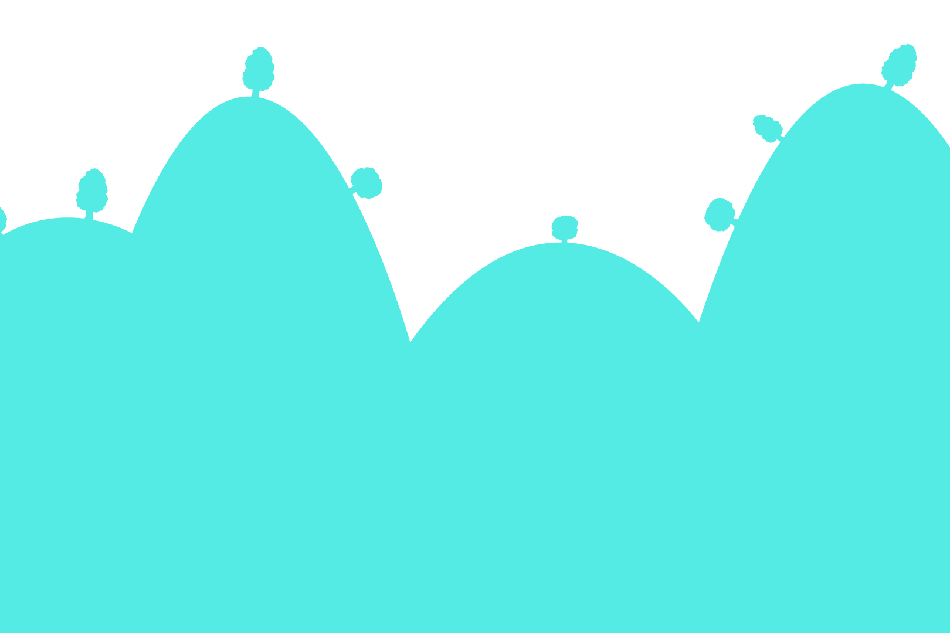
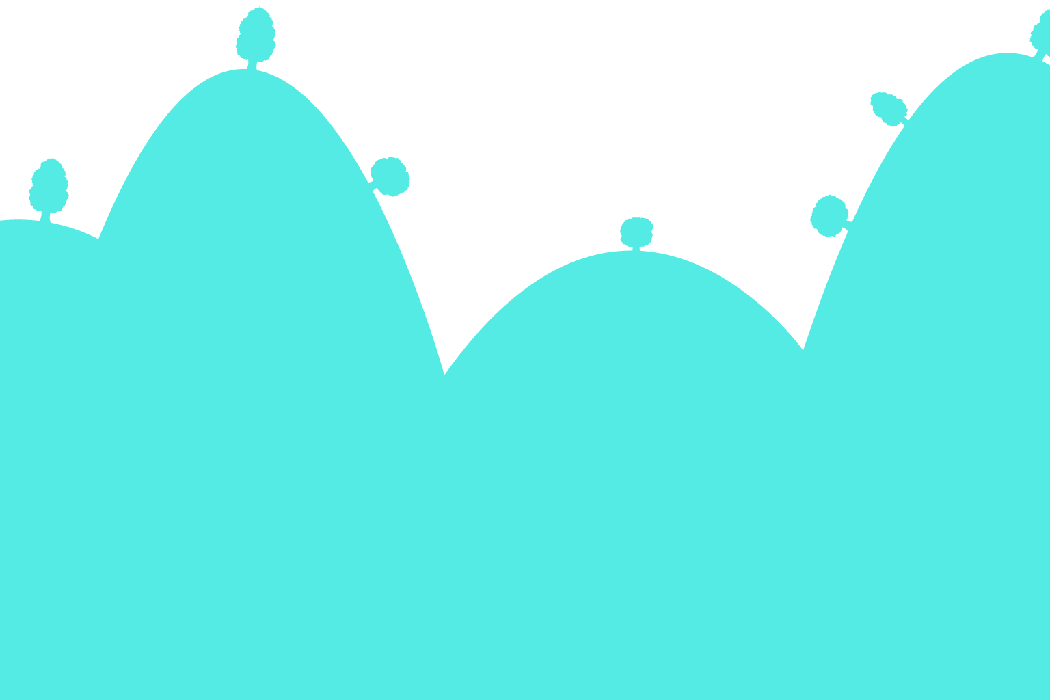
rotation problem fixed

Changed region(s): [[0.4579, 0.0, 1.0, 0.5103], [0.0, 0.0, 0.3358, 0.3602], [0.3358, 0.2101, 0.4579, 0.5403]]

diff --git a/js/game.js b/js/game.js
@@ -48,11 +48,16 @@ const game = {
   },
 
   reset() {
-    this.sky = new Sky();
-
     //level creation
     if (levels[this.levelN] === undefined) this.levelN = 0;
     this.level = new Level(levels[this.levelN]);
+
+    // background creation
+    this.sky = new Sky();
+    this.backgrounds = [];
+    this.backgrounds.push(new Background("./img/bg-back.png", 1050, 700));
+    this.backgrounds.push(new Background("./img/bg-mid.png", 1100, 733));
+    this.backgrounds.push(new Background("./img/bg-front.png", 1150, 767));
 
     // characters creation
     this.hero = Object.assign(new Hero(), this.level.hero);
@@ -61,24 +66,19 @@ const game = {
     this.level.enemies.forEach(enemy => {
       this.enemies.push(Object.assign(new Enemy(), enemy));
     });
-
-    // background creation
-    this.backgrounds = [];
-    this.backgrounds.push(new Background("./img/bg-back.png", 950, 633));
-    this.backgrounds.push(new Background("./img/bg-mid.png", 1000, 667));
-    this.backgrounds.push(new Background("./img/bg-front.png", 1050, 700));
   },
 
   update(character, secondsPassed) {
-    this.rotation(character);
+    this.ctx.save();
     this.gravity(character, secondsPassed);
     this.collision(character);
+    this.rotation(character);
     character.draw(this.ctx);
+    this.ctx.restore();
   },
 
   rotation(character) {
     let rotate = degrees => {
-      this.ctx.save();
       let xTranslate = character.x + character.w / 2;
       let yTranslate = character.y + character.h / 2;
       this.ctx.translate(xTranslate, yTranslate);
@@ -165,26 +165,24 @@ const game = {
         // check if the character is colliding with the top of a brick
         if (
           character.y + character.h >= brick[1] &&
-          character.y + character.h < brick[1] + this.level.brickSize
+          character.y + character.h < brick[1] + this.level.brickSize &&
+          character.gravitySpeed > 0
         ) {
-          if (character.gravitySpeed > 0) {
-            character.y = brick[1] - character.h;
-            character.isFlying = false;
-            character.gravitySpeed = 1;
-            if (brick[2]) explosiveBrick = true;
-          }
+          character.y = brick[1] - character.h;
+          character.isFlying = false;
+          character.gravitySpeed = 1;
+          if (brick[2]) explosiveBrick = true;
         }
         // check if the character is colliding with the bottom of a brick
         if (
           character.y <= brick[1] + this.level.brickSize &&
-          character.y > brick[1]
+          character.y > brick[1] &&
+          character.gravitySpeed < 0
         ) {
-          if (character.gravitySpeed < 0) {
-            character.y = brick[1] + this.level.brickSize;
-            character.isFlying = false;
-            character.gravitySpeed = -1;
-            if (brick[2]) explosiveBrick = true;
-          }
+          character.y = brick[1] + this.level.brickSize;
+          character.isFlying = false;
+          character.gravitySpeed = -1;
+          if (brick[2]) explosiveBrick = true;
         }
       }
 

diff --git a/js/keyboard.js b/js/keyboard.js
@@ -3,6 +3,8 @@ class Keyboard {
     this.playerKeys = {
       left: 37,
       right: 39,
+      up: 38,
+      down: 40,
       action: 90
     };
     this.rightPressed = false;
@@ -16,7 +18,15 @@ class Keyboard {
       this.leftPressed = true;
     } else if (e.keyCode === this.playerKeys.right) {
       this.rightPressed = true;
-    } else if (e.keyCode === this.playerKeys.action && !game.hero.isFlying) {
+    } else if (
+      (e.keyCode === this.playerKeys.action && !game.hero.isFlying) ||
+      (e.keyCode === this.playerKeys.up &&
+        !game.hero.isFlying &&
+        game.hero.gravitySpeed > 0) ||
+      (e.keyCode === this.playerKeys.down &&
+        !game.hero.isFlying &&
+        game.hero.gravitySpeed < 0)
+    ) {
       game.hero.gravitySpeed = -game.hero.gravitySpeed;
       game.hero.isFlying = true;
       game.hero.isRotating = true;
@@ -51,6 +61,5 @@ class Keyboard {
     } else {
       character.activeSprite = 0;
     }
-    game.collision(character);
   }
 }

diff --git a/js/levels.js b/js/levels.js
@@ -87,11 +87,22 @@ var levels = [
       [480, 0, true],
       [500, 0],
 
+      [200, 140],
+      [220, 140],
+      [240, 160],
+      [260, 160],
+      [280, 180],
+      [300, 180],
+
       [200, 440],
       [220, 440],
       [240, 440],
       [260, 440],
       [280, 440],
+
+      [380, 440],
+      [400, 440],
+      [420, 440],
 
       [200, 460],
       [200, 480],

diff --git a/js/objects.js b/js/objects.js
@@ -11,7 +11,7 @@ class Character {
     this.image = new Image();
     this.sprites = 19;
     this.activeSprite = 0;
-    this.margin = 25;
+    this.margin = 25; // margin to fall down when the feet are not in the floor
     this.alive = true;
   }
 
@@ -30,7 +30,6 @@ class Character {
       this.w,
       this.h
     );
-    ctx.restore();
   }
 }
 

diff --git a/index.html b/index.html
@@ -14,7 +14,7 @@
   </head>
   <body>
     <div id="screen">
-      <canvas id="canvas" width="900" height="600"></canvas>
+      <canvas id="canvas" width="1000" height="667"></canvas>
     </div>
   </body>
 </html>
